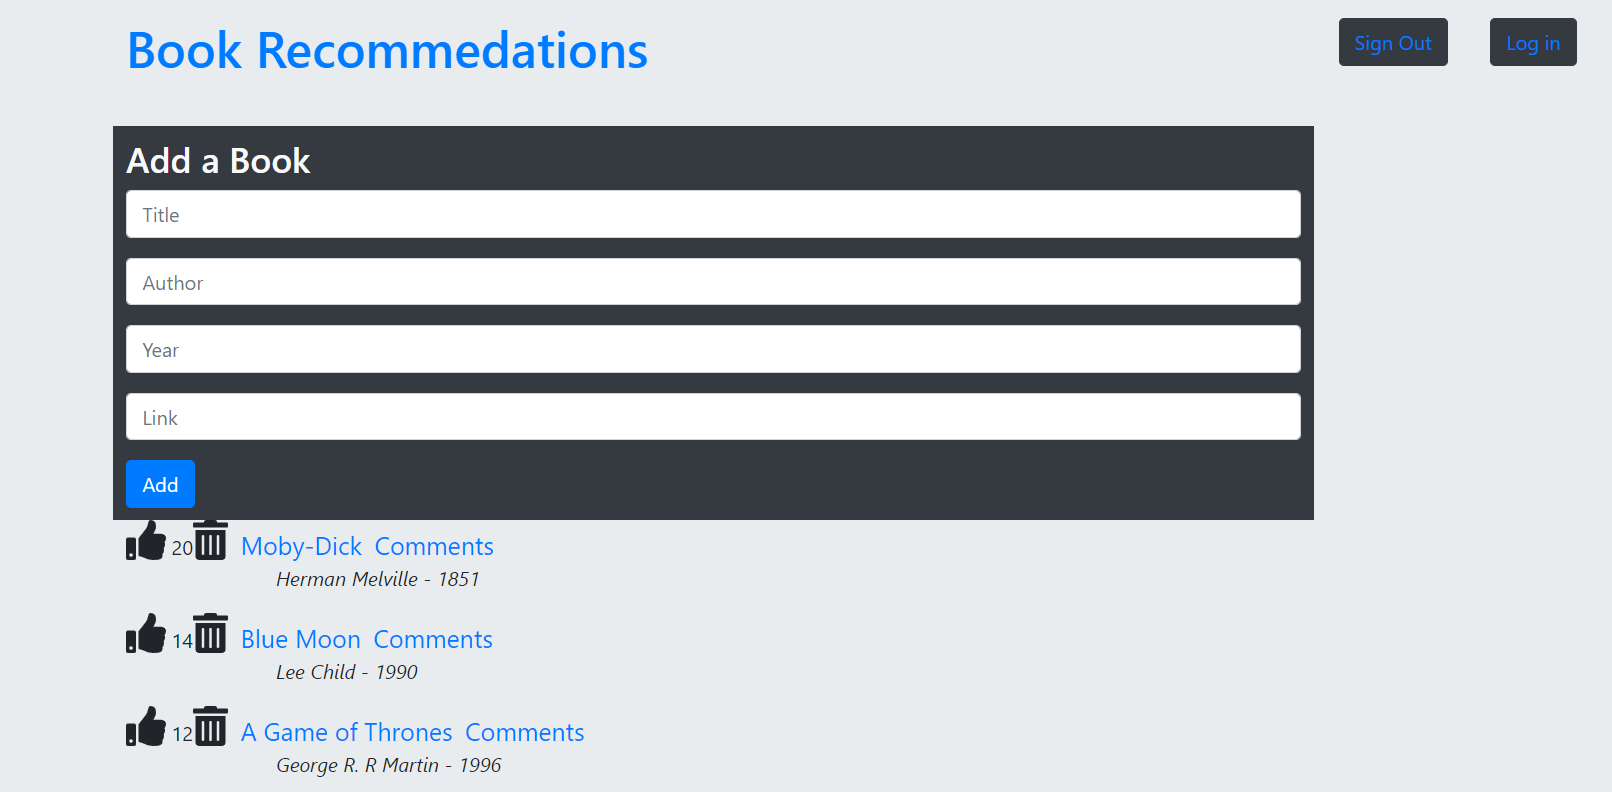
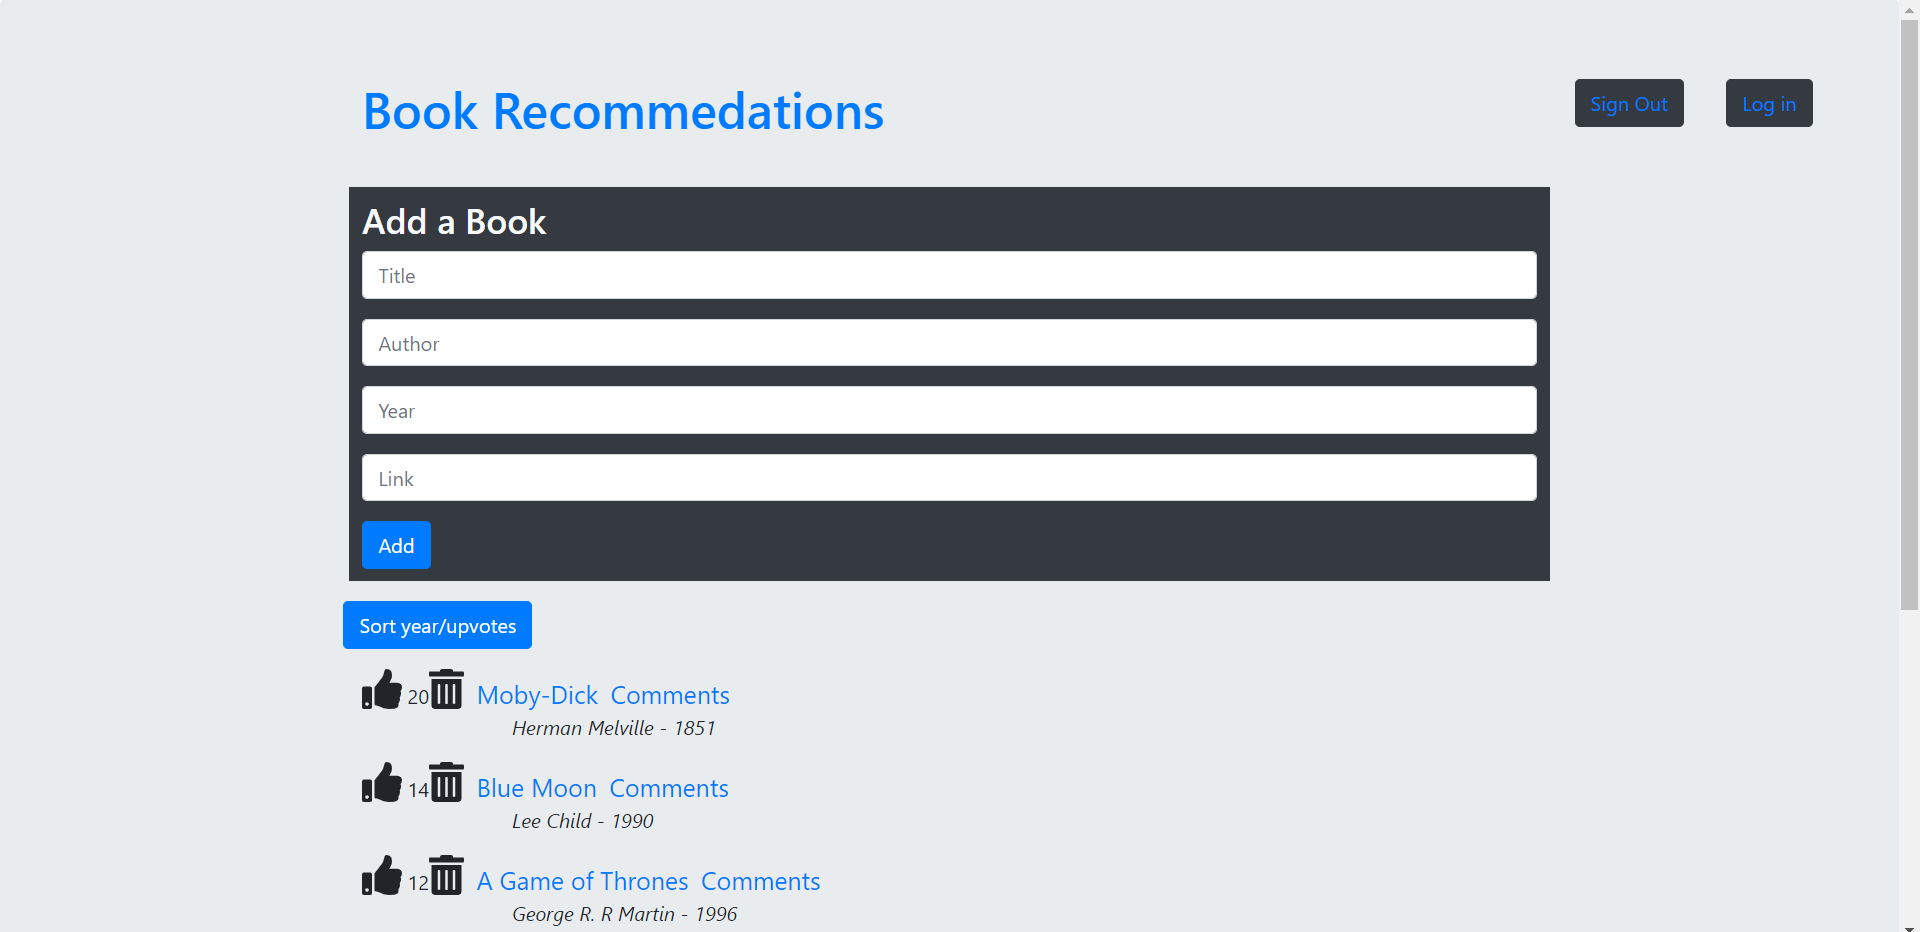
Updated README

Changed region(s): [[0.062, 0.0, 1.0, 1.0]]

diff --git a/README.md b/README.md
@@ -14,6 +14,7 @@ This is a book recommendation web app. The app allows users to share book recomm
 - Users can comment on posts.
 - Users can upvote comments.
 - Users can delete posts.
+- Posts can be sorted by upvotes or year.
 
 ## Setup.
 
@@ -68,7 +69,7 @@ This is a book recommendation web app. The app allows users to share book recomm
 
 ## Authentication.
 
-- The app uses Firebase authentication. The authentication used was email/password authentication. The authentication supports sign up and log in. Emails ceated are stored by firebase.
+- The app uses Firebase authentication. The authentication used was email/password authentication. The authentication supports sign up and log in. Emails ceated are stored by Firebase.
 
 ## Independent learning.
 
